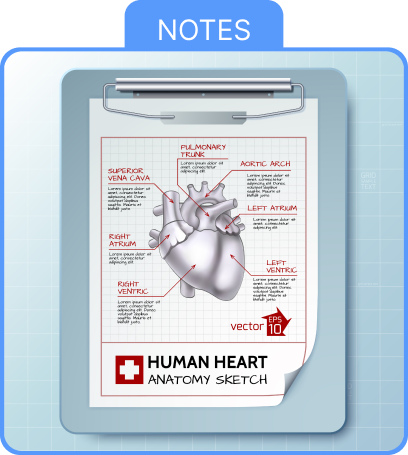
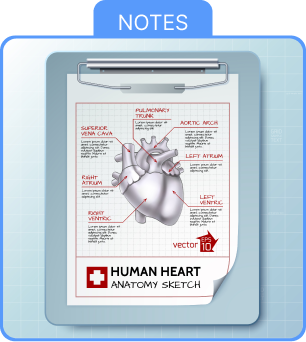
change image size for responsive design

diff --git a/member.html b/member.html
@@ -131,16 +131,15 @@
                         </div>
                     </div>
                 </div>
-
                 <!-- Videos and Notes Section -->
                 <div class="row g-4">
                     <!-- Videos -->
                     <div class="col-md-6">
-                        <a class="video" href="#">
+                        <a class="notes" href="#">
                             <img src="public/images/video.png" alt="logo" />
                         </a>
                     </div>
-
+        
                     <!-- Notes -->
                     <div class="col-md-6">
                         <a class="notes" href="#">
@@ -148,6 +147,8 @@
                         </a>
                     </div>
                 </div>
+            </div>
+        </div>
             </div>
         </div>
     </body>
